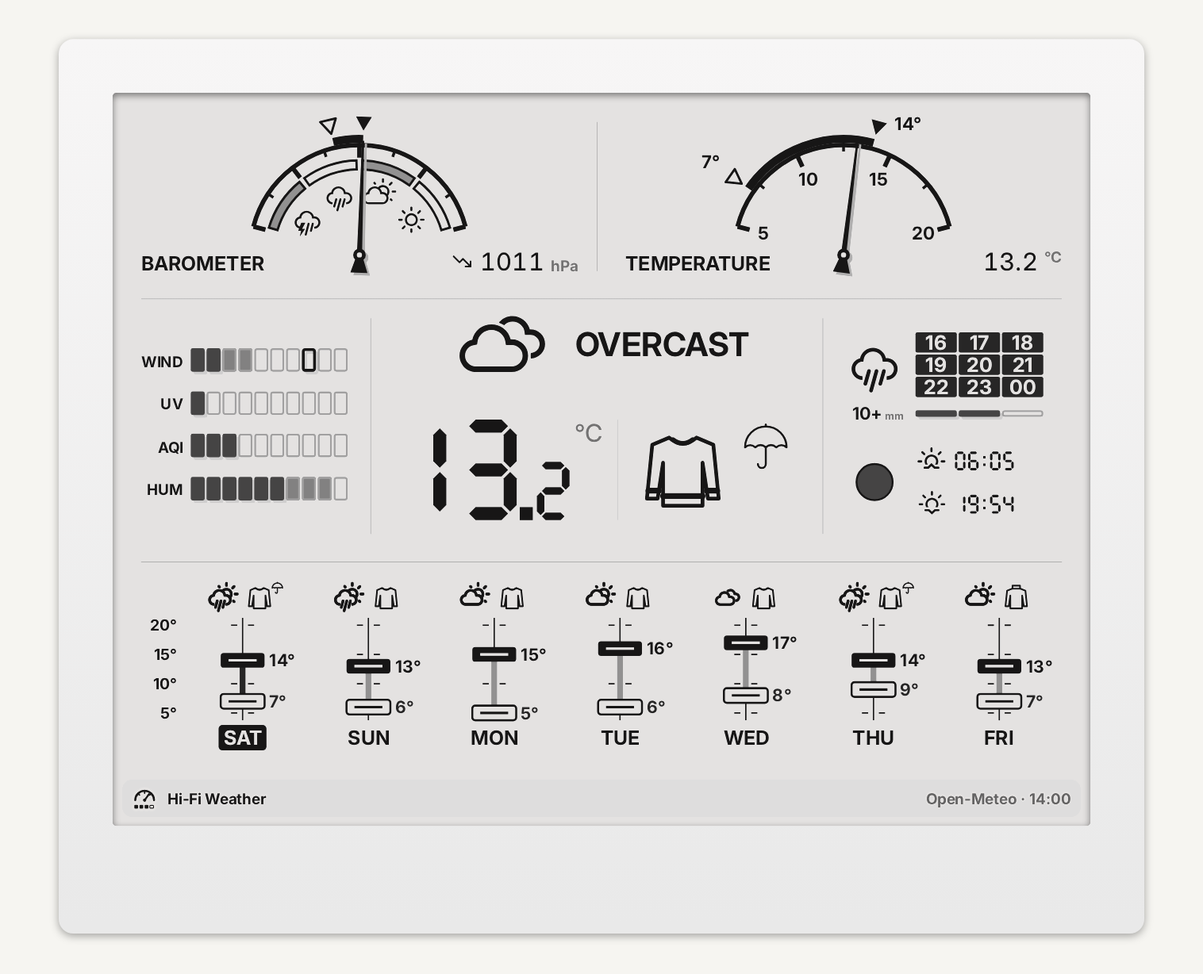
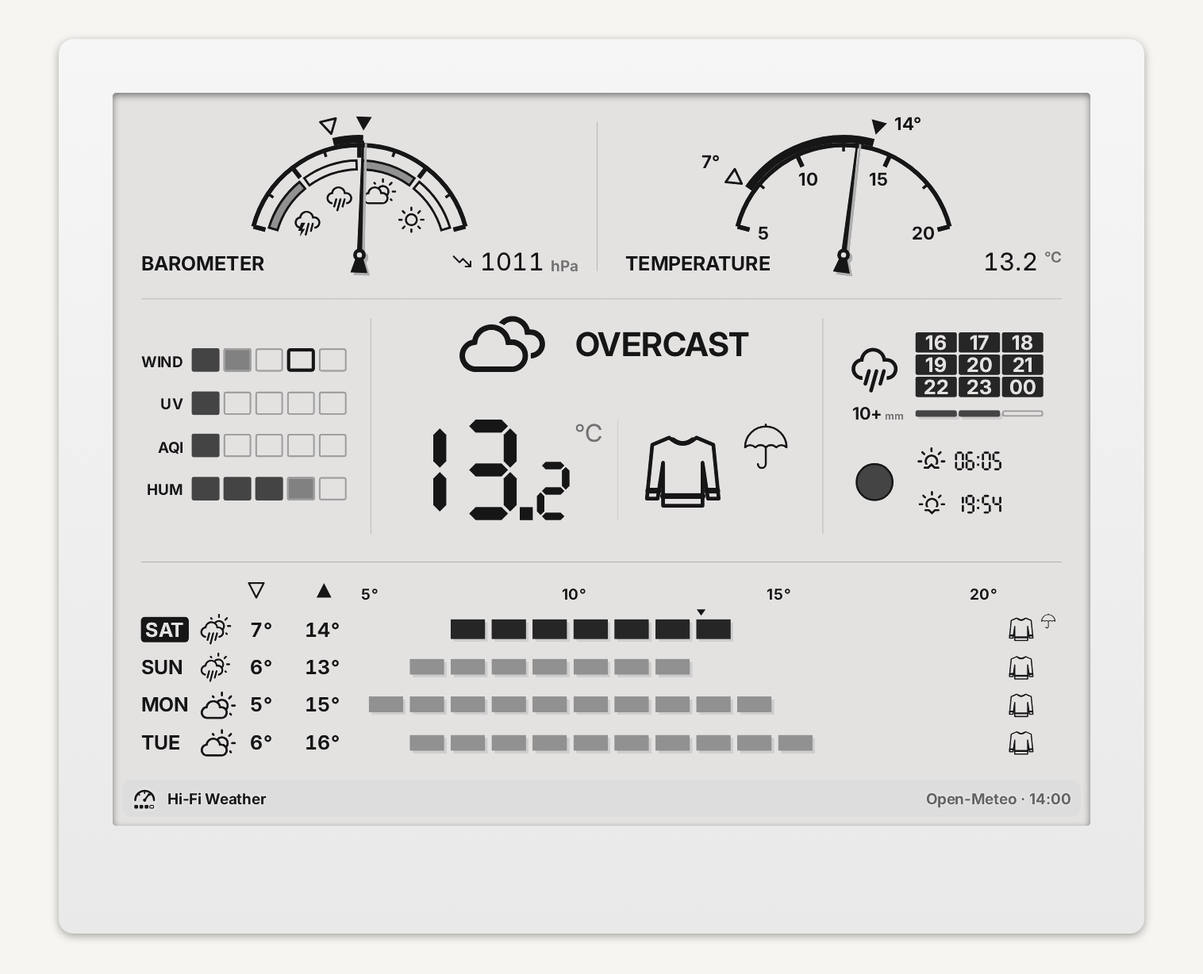
Site: the try-it page's Week display offers Blocks and Digital like settings.yml, guide picture 4 shows the Blocks week (captured again), the numbered legends and their badges are gone, README week text follows Blocks; docs rebuilt
The page is English only. Its option guard is a model test in the next commit (every page select equals the options of settings.yml).

diff --git a/docs/index.html b/docs/index.html
@@ -65,9 +65,6 @@ footer{padding:20px 0 40px;color:var(--mute);font-size:.85rem;border-top:1px sol
 .pic{position:relative;background:var(--panel);border:1px solid var(--rule);border-radius:10px;padding:8px}
 .im{position:relative}
 .pic img{display:block;width:100%;height:auto;border-radius:6px}
-.bd{position:absolute;transform:translate(-50%,-50%);min-width:20px;height:20px;border-radius:10px;background:#c8321e;color:#fff;font:600 12px/20px system-ui,sans-serif;text-align:center;padding:0 4px;box-shadow:0 0 0 2px #fff}
-ol.legend{margin:0;padding-left:1.6rem}
-ol.legend li{padding:5px 0;font-size:.92rem}
 
 </style>
 </head>
@@ -101,7 +98,7 @@ ol.legend li{padding:5px 0;font-size:.92rem}
       <div class="row"><label for="bottom">Bottom strip</label><select id="bottom"><option value="days">Days</option><option value="hours">Hours</option><option value="auto">Hours, then days</option></select></div>
       <div class="row"><label for="bottom_switch">Switch to days at</label><select id="bottom_switch"><option value="12">12:00</option><option value="13">13:00</option><option value="14">14:00</option><option value="15">15:00</option><option value="16">16:00</option><option value="17">17:00</option><option value="18" selected>18:00</option><option value="19">19:00</option><option value="20">20:00</option><option value="21">21:00</option><option value="22">22:00</option><option value="23">23:00</option></select></div>
       <div class="row"><label for="hide_title_bar">Hide title bar</label><label class="chk"><input type="checkbox" id="hide_title_bar"> on</label></div>
-      <div class="row"><label for="week_style">Week display</label><select id="week_style"><option value="auto">Auto</option><option value="eq">EQ sliders</option><option value="digital">Digital</option></select></div>
+      <div class="row"><label for="week_style">Week display</label><select id="week_style"><option value="blocks">Blocks</option><option value="digital">Digital</option></select></div>
       <div class="row"><label for="show_wear">What to wear</label><label class="chk"><input type="checkbox" id="show_wear" checked> on</label></div>
     </fieldset>
     <fieldset><legend>Sensor</legend>
@@ -121,7 +118,7 @@ ol.legend li{padding:5px 0;font-size:.92rem}
     <li><b>Console</b>: the temperature in segment digits, and what to wear: parka, jacket, sweater or T-shirt, and an umbrella.</li>
     <li><b>Meters</b> for wind and gusts, UV, air quality, humidity, pollen and pressure, only when they matter.</li>
     <li><b>Rain or sun</b>: an hour calendar when rain is coming, otherwise sunrise, sunset and the moon as seen from your place.</li>
-    <li><b>Bottom strip</b>: the coming hours, or the coming days as a week display (EQ sliders or Digital).</li>
+    <li><b>Bottom strip</b>: the coming hours, or the coming days as a week display (Blocks or Digital).</li>
     <li><b>Indoor sensor</b>: a TRMNL temperature sensor on this screen or on another TRMNL, with an optional label; the CO2 meter shows when the source gives a CO2 reading.</li>
     <li><b>Every view</b>: full, half horizontal, half vertical, quadrant; 1-bit, greyscale and colour screens; dark mode.</li>
     <li><b>Offline</b>: when Open-Meteo is slow or down, the last saved forecast shows with its time.</li>
@@ -133,56 +130,19 @@ ol.legend li{padding:5px 0;font-size:.92rem}
   <p class="note">Four real screens from this page (TRMNL X, full view). Numbers match the lists. Values come from the plugin's code; yellow and red show on colour screens only, on the others count the blocks.</p>
 
   <div class="fig">
-    <div class="pic"><div class="im"><img src="guide/g1.png" alt="Hi-Fi Weather, heat wave example, with numbered parts" width="758" height="614" loading="lazy"><b class="bd" style="left:29.9%;top:17.3%">1</b><b class="bd" style="left:16.8%;top:26.6%">2</b><b class="bd" style="left:70.1%;top:17.3%">3</b><b class="bd" style="left:59.1%;top:15.4%">4</b><b class="bd" style="left:83.8%;top:26.3%">5</b><b class="bd" style="left:22.5%;top:36.7%">6</b><b class="bd" style="left:25.7%;top:45.4%">7</b><b class="bd" style="left:52.3%;top:34.6%">8</b><b class="bd" style="left:39.3%;top:46.8%">9</b><b class="bd" style="left:57.8%;top:46.8%">10</b><b class="bd" style="left:84.6%;top:40.2%">11</b><b class="bd" style="left:71.4%;top:42.4%">12</b><b class="bd" style="left:14.7%;top:70.9%">13</b><b class="bd" style="left:50.0%;top:81.4%">14</b></div></div>
-    <ol class="legend">
-      <li data-guide="baro"><b>Barometer</b> (X): the needle is the air pressure now, scale 970 to 1050 hPa. The four zones are 20 hPa each: thunderstorm (970 to 990), rain (990 to 1010), changeable (1010 to 1030), sunny (1030 to 1050). Normal is about 1013 hPa.</li>
-      <li data-guide="pressure"><b>Pressure and trend</b>: hPa now; the arrow compares with 3 hours ago (rising or falling from 1 hPa, otherwise level).</li>
-      <li data-guide="tdial"><b>Temperature dial</b> (X): the black needle is the temperature now.</li>
-      <li data-guide="marks"><b>Low and high marks</b>: the outlined triangle is today's lowest temperature, the filled one today's highest; the thick arc between them is today's range. The barometer has the same marks for the lowest and highest pressure of the next 24 hours.</li>
-      <li data-guide="trend"><b>Temperature and arrow</b>: the arrow compares now with 3 hours ahead (up or down from 1 degree C, 2 degrees F, otherwise level).</li>
-      <li data-guide="meters"><b>Meters</b>: up to four rows, chosen by what matters now (UV only from a day maximum of 3, pollen only when there is some, air quality, wind, humidity; the barometer row only fills a spare place). 10 blocks on large screens, 5 on small ones. A <b>lit label</b> (white on black, mirrored in dark mode) means the value is in its bad range: WIND from 50 km/h (30 mph), UV from 8, AQI from 60, POLLEN from 50, CO2 from 1400 ppm, and the sensor's HUM below 30 % or above 60 % (outdoor humidity never lights). In the small views (half vertical, quadrant) the console shows two meter rows or none, never a single row. Bands are in the table below.</li>
-      <li data-guide="cells"><b>Light grey blocks</b>: the highest value still to come today (the rest of today up to midnight).</li>
-      <li data-guide="title"><b>Condition</b>: icon and words for the weather now, in your language; a moon icon at night.</li>
-      <li data-guide="digits"><b>Temperature digits</b> in the unit you chose. The last digit is the tenths: smaller, black and on the baseline like the seconds of a clock. Units (°C, hPa, mm) are grey and small everywhere on greyscale screens, black on 1-bit; the °C sits at the top of its number.</li>
-      <li data-guide="cues"><b>What to wear</b>: one garment by the felt temperature of today from 07:00 to 19:00 (the same advice as today's column in the week): a parka when the coldest is under 3 C (37 F) and the warmest under 8 C (46 F), otherwise by the warmest: jacket under 12 C (54 F), sweater under 18 C (64 F), else a T-shirt. An umbrella is added when any hour from 07:00 to 19:00 has a rain chance of 50 % or more. The garment changes only once the felt temperature is 1 degree C (2 F) past the line, so it does not flip back and forth.</li>
-      <li data-guide="sun"><b>Sun times</b>: the next sunrise and sunset; once today's has passed, tomorrow's shows.</li>
-      <li data-guide="moon"><b>Moon</b>: the phase as it looks from your place today.</li>
-      <li data-guide="hours"><b>Hours strip</b>: 12 columns of 2 hours from the current even hour, each with its time, icon, and a bar with the temperature. A black time stamp is the first column (now) or a column where it rains (a rain chance of 50 % or more in one of its hours).</li>
-      <li data-guide="footer"><b>Footer</b>: plugin name, data source and the time of the last update (can be hidden in the settings). When the weather service is down it shows the last saved forecast with its time.</li>
-    </ol>
+    <div class="pic"><div class="im"><img src="guide/g1.png" alt="Hi-Fi Weather, heat wave example" width="758" height="614" loading="lazy"></div></div>
   </div>
 
   <div class="fig">
-    <div class="pic"><div class="im"><img src="guide/g2.png" alt="Hi-Fi Weather with rain coming, with numbered parts" width="758" height="614" loading="lazy"><b class="bd" style="left:72.7%;top:36.4%">1</b><b class="bd" style="left:81.4%;top:36.4%">2</b><b class="bd" style="left:17.1%;top:36.6%">3</b></div></div>
-    <ol class="legend">
-      <li data-guide="rain"><b>Rain column</b>: replaces the sun and moon while rain is expected in the next 12 hours. The icon says what falls: rain, snow or hail. Under the calendar, the amount (for example 3 mm) and the gauge: 1 block drizzle, 2 rain, 3 heavy rain.</li>
-      <li data-guide="calendar"><b>Hour calendar</b>: the next 6 or 9 hours. A dark tile is an hour with a rain chance of 50 % or more (or a wet weather code).</li>
-      <li data-guide="m-rain"><b>Rain gauge</b>: 3 blocks by the heaviest hour of the next 12: 1 drizzle (under 1 mm/h, 0.04 in/h), 2 rain, 3 heavy rain (4 mm/h, 0.16 in/h and up). The number is the 12 hour total, at most 10+ mm (0.4+ in).</li>
-      <li data-guide="hours-wet"><b>Hours strip</b>: the dark time stamps show the same wet hours over the next day.</li>
-      <li data-guide="gust"><b>Gust outline</b> on WIND: the outlined block is the strongest gust still to come today. Dark blocks are the wind now, light grey blocks the wind speed still to come.</li>
-    </ol>
+    <div class="pic"><div class="im"><img src="guide/g2.png" alt="Hi-Fi Weather with rain coming" width="758" height="614" loading="lazy"></div></div>
   </div>
 
   <div class="fig">
-    <div class="pic"><div class="im"><img src="guide/g3.png" alt="Hi-Fi Weather with an indoor sensor, with numbered parts" width="758" height="614" loading="lazy"><b class="bd" style="left:38.5%;top:42.8%">1</b><b class="bd" style="left:57.2%;top:42.5%">2</b><b class="bd" style="left:70.1%;top:17.3%">3</b><b class="bd" style="left:55.6%;top:48.1%">4</b></div></div>
-    <ol class="legend">
-      <li data-guide="sensor"><b>Indoor sensor</b>: the sensor icon (a house, or with Sensor icon Anemometer a mast with cups) marks the sensor's reading (your own TRMNL's or another one's), the tree icon the outside weather. One of them is the first big reading (setting Main reading), the other follows beside it; both icons and the sensor name are black (white on dark). The small reading in the corner of the temperature dial is black too, with a grey unit; only the dial's second needle is grey. An optional short label (for example Upstairs) shows beside the sensor icon.</li>
-      <li data-guide="outside"><b>Outside reading with its cues</b>: the garment and umbrella always belong to the outside weather.</li>
-      <li data-guide="twin"><b>Second needle</b>: the grey needle is the other reading. The marks and range on the dial belong to the outside temperature.</li>
-      <li data-guide="m-co2"><b>CO2</b> (sensor with CO2): comes first with the sensor, and moves up the list past 1400 ppm. Indoor humidity is a second block row next to the outside one, marked with the house and the tree.</li>
-      <li data-guide="small"><b>Small readout</b>: the reading that is not the main one, with its trend arrow.</li>
-    </ol>
+    <div class="pic"><div class="im"><img src="guide/g3.png" alt="Hi-Fi Weather with an indoor sensor" width="758" height="614" loading="lazy"></div></div>
   </div>
 
   <div class="fig">
-    <div class="pic"><div class="im"><img src="guide/g4.png" alt="Hi-Fi Weather with the week display, with numbered parts" width="758" height="614" loading="lazy"><b class="bd" style="left:50.0%;top:65.8%">1</b><b class="bd" style="left:20.2%;top:75.4%">2</b><b class="bd" style="left:20.1%;top:67.0%">3</b><b class="bd" style="left:51.6%;top:66.5%">4</b><b class="bd" style="left:21.7%;top:60.8%">5</b></div></div>
-    <ol class="legend">
-      <li data-guide="days"><b>Week display</b> (setting Bottom strip, then Week display): one column per day, the weather icon and what to wear on top, the weekday below (today as a lit label). <b>EQ sliders</b>: a knob for the high (black) and one for the low (white) on one shared temperature scale at the left, the range between them filled, short tick marks at every scale step and a thin 0 line when 0 is on the scale. <b>Digital</b>: the high in large segment digits and the low smaller, both aligned on the ones digit. <b>Auto</b> (default) takes sliders on the TRMNL X and Digital on smaller and 1-bit or 2-bit screens; the smaller views always show Digital. 4 to 7 days fit on screen.</li>
-      <li data-guide="today"><b>Today</b>: the first column, its label lit (white on black, mirrored in dark mode).</li>
-      <li data-guide="range"><b>Sliders</b>: the black knob is the day's high, the white knob its low, the bar between them the range (black today, grey on the other days on greyscale screens). One temperature scale at the left serves every day; tick marks sit at every scale step. In Digital the high is the large number and the low the smaller one under it, both aligned on the ones digit.</li>
-      <li data-guide="zero"><b>0 line</b>: a thin line across the week when 0 is on the scale; the value labels step clear of it.</li>
-      <li data-guide="daycues"><b>Cue per day</b>: the garment for the day's felt temperature between 07:00 and 19:00 (today's is the console's), and a small umbrella mark from a 50 % rain chance.</li>
-    </ol>
+    <div class="pic"><div class="im"><img src="guide/g4.png" alt="Hi-Fi Weather with the week display" width="758" height="614" loading="lazy"></div></div>
   </div>
 
   <h2>The meters, band by band</h2>
@@ -216,7 +176,7 @@ ol.legend li{padding:5px 0;font-size:.92rem}
     <tr><th>Bottom strip</th><td>Days, hours, or hours then days.</td></tr>
     <tr><th>Switch to days at</th><td>With Hours, then days: the hour (12:00 to 23:00, default 18:00) the hours give way to the days.</td></tr>
     <tr><th>Sensor icon</th><td>The icon in front of the sensor's reading: a house (default) or an anemometer, a mast with cups, for a sensor outside. Only the icon changes.</td></tr>
-    <tr><th>Week display</th><td>Auto (default: EQ sliders on the TRMNL X, Digital on smaller, 1-bit and 2-bit screens), EQ sliders or Digital. Smaller views always show Digital.</td></tr>
+    <tr><th>Week display</th><td>Blocks (default: one row per day with a bar of blocks) or Digital (the high and low in segment digits). An older saved value shows Blocks.</td></tr>
     <tr><th>What to wear</th><td>On by default. Off hides the clothing and umbrella icons everywhere.</td></tr>
     <tr><th>Hide title bar</th><td>Hides the bar with the plugin name and update time on the full view.</td></tr>
     <tr><th>Sensor</th><td>None (outside weather only), This TRMNL, Another TRMNL, or a provider: Home Assistant, Awair, AirGradient, Sensibo, Ecowitt, Adafruit IO or a JSON link. Readings older than 3 hours are ignored. See Indoor sensor sources below. On this page: "Sensor on" and "Sensor".</td></tr>

diff --git a/tools/site/page/index.html b/tools/site/page/index.html
@@ -65,9 +65,6 @@ footer{padding:20px 0 40px;color:var(--mute);font-size:.85rem;border-top:1px sol
 .pic{position:relative;background:var(--panel);border:1px solid var(--rule);border-radius:10px;padding:8px}
 .im{position:relative}
 .pic img{display:block;width:100%;height:auto;border-radius:6px}
-.bd{position:absolute;transform:translate(-50%,-50%);min-width:20px;height:20px;border-radius:10px;background:#c8321e;color:#fff;font:600 12px/20px system-ui,sans-serif;text-align:center;padding:0 4px;box-shadow:0 0 0 2px #fff}
-ol.legend{margin:0;padding-left:1.6rem}
-ol.legend li{padding:5px 0;font-size:.92rem}
 
 </style>
 </head>
@@ -101,7 +98,7 @@ ol.legend li{padding:5px 0;font-size:.92rem}
       <div class="row"><label for="bottom">Bottom strip</label><select id="bottom"><option value="days">Days</option><option value="hours">Hours</option><option value="auto">Hours, then days</option></select></div>
       <div class="row"><label for="bottom_switch">Switch to days at</label><select id="bottom_switch"><option value="12">12:00</option><option value="13">13:00</option><option value="14">14:00</option><option value="15">15:00</option><option value="16">16:00</option><option value="17">17:00</option><option value="18" selected>18:00</option><option value="19">19:00</option><option value="20">20:00</option><option value="21">21:00</option><option value="22">22:00</option><option value="23">23:00</option></select></div>
       <div class="row"><label for="hide_title_bar">Hide title bar</label><label class="chk"><input type="checkbox" id="hide_title_bar"> on</label></div>
-      <div class="row"><label for="week_style">Week display</label><select id="week_style"><option value="auto">Auto</option><option value="eq">EQ sliders</option><option value="digital">Digital</option></select></div>
+      <div class="row"><label for="week_style">Week display</label><select id="week_style"><option value="blocks">Blocks</option><option value="digital">Digital</option></select></div>
       <div class="row"><label for="show_wear">What to wear</label><label class="chk"><input type="checkbox" id="show_wear" checked> on</label></div>
     </fieldset>
     <fieldset><legend>Sensor</legend>
@@ -121,7 +118,7 @@ ol.legend li{padding:5px 0;font-size:.92rem}
     <li><b>Console</b>: the temperature in segment digits, and what to wear: parka, jacket, sweater or T-shirt, and an umbrella.</li>
     <li><b>Meters</b> for wind and gusts, UV, air quality, humidity, pollen and pressure, only when they matter.</li>
     <li><b>Rain or sun</b>: an hour calendar when rain is coming, otherwise sunrise, sunset and the moon as seen from your place.</li>
-    <li><b>Bottom strip</b>: the coming hours, or the coming days as a week display (EQ sliders or Digital).</li>
+    <li><b>Bottom strip</b>: the coming hours, or the coming days as a week display (Blocks or Digital).</li>
     <li><b>Indoor sensor</b>: a TRMNL temperature sensor on this screen or on another TRMNL, with an optional label; the CO2 meter shows when the source gives a CO2 reading.</li>
     <li><b>Every view</b>: full, half horizontal, half vertical, quadrant; 1-bit, greyscale and colour screens; dark mode.</li>
     <li><b>Offline</b>: when Open-Meteo is slow or down, the last saved forecast shows with its time.</li>
@@ -133,56 +130,19 @@ ol.legend li{padding:5px 0;font-size:.92rem}
   <p class="note">Four real screens from this page (TRMNL X, full view). Numbers match the lists. Values come from the plugin's code; yellow and red show on colour screens only, on the others count the blocks.</p>
 
   <div class="fig">
-    <div class="pic"><div class="im"><img src="guide/g1.png" alt="Hi-Fi Weather, heat wave example, with numbered parts" width="758" height="614" loading="lazy"><b class="bd" style="left:29.9%;top:17.3%">1</b><b class="bd" style="left:16.8%;top:26.6%">2</b><b class="bd" style="left:70.1%;top:17.3%">3</b><b class="bd" style="left:59.1%;top:15.4%">4</b><b class="bd" style="left:83.8%;top:26.3%">5</b><b class="bd" style="left:22.5%;top:36.7%">6</b><b class="bd" style="left:25.7%;top:45.4%">7</b><b class="bd" style="left:52.3%;top:34.6%">8</b><b class="bd" style="left:39.3%;top:46.8%">9</b><b class="bd" style="left:57.8%;top:46.8%">10</b><b class="bd" style="left:84.6%;top:40.2%">11</b><b class="bd" style="left:71.4%;top:42.4%">12</b><b class="bd" style="left:14.7%;top:70.9%">13</b><b class="bd" style="left:50.0%;top:81.4%">14</b></div></div>
-    <ol class="legend">
-      <li data-guide="baro"><b>Barometer</b> (X): the needle is the air pressure now, scale 970 to 1050 hPa. The four zones are 20 hPa each: thunderstorm (970 to 990), rain (990 to 1010), changeable (1010 to 1030), sunny (1030 to 1050). Normal is about 1013 hPa.</li>
-      <li data-guide="pressure"><b>Pressure and trend</b>: hPa now; the arrow compares with 3 hours ago (rising or falling from 1 hPa, otherwise level).</li>
-      <li data-guide="tdial"><b>Temperature dial</b> (X): the black needle is the temperature now.</li>
-      <li data-guide="marks"><b>Low and high marks</b>: the outlined triangle is today's lowest temperature, the filled one today's highest; the thick arc between them is today's range. The barometer has the same marks for the lowest and highest pressure of the next 24 hours.</li>
-      <li data-guide="trend"><b>Temperature and arrow</b>: the arrow compares now with 3 hours ahead (up or down from 1 degree C, 2 degrees F, otherwise level).</li>
-      <li data-guide="meters"><b>Meters</b>: up to four rows, chosen by what matters now (UV only from a day maximum of 3, pollen only when there is some, air quality, wind, humidity; the barometer row only fills a spare place). 10 blocks on large screens, 5 on small ones. A <b>lit label</b> (white on black, mirrored in dark mode) means the value is in its bad range: WIND from 50 km/h (30 mph), UV from 8, AQI from 60, POLLEN from 50, CO2 from 1400 ppm, and the sensor's HUM below 30 % or above 60 % (outdoor humidity never lights). In the small views (half vertical, quadrant) the console shows two meter rows or none, never a single row. Bands are in the table below.</li>
-      <li data-guide="cells"><b>Light grey blocks</b>: the highest value still to come today (the rest of today up to midnight).</li>
-      <li data-guide="title"><b>Condition</b>: icon and words for the weather now, in your language; a moon icon at night.</li>
-      <li data-guide="digits"><b>Temperature digits</b> in the unit you chose. The last digit is the tenths: smaller, black and on the baseline like the seconds of a clock. Units (°C, hPa, mm) are grey and small everywhere on greyscale screens, black on 1-bit; the °C sits at the top of its number.</li>
-      <li data-guide="cues"><b>What to wear</b>: one garment by the felt temperature of today from 07:00 to 19:00 (the same advice as today's column in the week): a parka when the coldest is under 3 C (37 F) and the warmest under 8 C (46 F), otherwise by the warmest: jacket under 12 C (54 F), sweater under 18 C (64 F), else a T-shirt. An umbrella is added when any hour from 07:00 to 19:00 has a rain chance of 50 % or more. The garment changes only once the felt temperature is 1 degree C (2 F) past the line, so it does not flip back and forth.</li>
-      <li data-guide="sun"><b>Sun times</b>: the next sunrise and sunset; once today's has passed, tomorrow's shows.</li>
-      <li data-guide="moon"><b>Moon</b>: the phase as it looks from your place today.</li>
-      <li data-guide="hours"><b>Hours strip</b>: 12 columns of 2 hours from the current even hour, each with its time, icon, and a bar with the temperature. A black time stamp is the first column (now) or a column where it rains (a rain chance of 50 % or more in one of its hours).</li>
-      <li data-guide="footer"><b>Footer</b>: plugin name, data source and the time of the last update (can be hidden in the settings). When the weather service is down it shows the last saved forecast with its time.</li>
-    </ol>
+    <div class="pic"><div class="im"><img src="guide/g1.png" alt="Hi-Fi Weather, heat wave example" width="758" height="614" loading="lazy"></div></div>
   </div>
 
   <div class="fig">
-    <div class="pic"><div class="im"><img src="guide/g2.png" alt="Hi-Fi Weather with rain coming, with numbered parts" width="758" height="614" loading="lazy"><b class="bd" style="left:72.7%;top:36.4%">1</b><b class="bd" style="left:81.4%;top:36.4%">2</b><b class="bd" style="left:17.1%;top:36.6%">3</b></div></div>
-    <ol class="legend">
-      <li data-guide="rain"><b>Rain column</b>: replaces the sun and moon while rain is expected in the next 12 hours. The icon says what falls: rain, snow or hail. Under the calendar, the amount (for example 3 mm) and the gauge: 1 block drizzle, 2 rain, 3 heavy rain.</li>
-      <li data-guide="calendar"><b>Hour calendar</b>: the next 6 or 9 hours. A dark tile is an hour with a rain chance of 50 % or more (or a wet weather code).</li>
-      <li data-guide="m-rain"><b>Rain gauge</b>: 3 blocks by the heaviest hour of the next 12: 1 drizzle (under 1 mm/h, 0.04 in/h), 2 rain, 3 heavy rain (4 mm/h, 0.16 in/h and up). The number is the 12 hour total, at most 10+ mm (0.4+ in).</li>
-      <li data-guide="hours-wet"><b>Hours strip</b>: the dark time stamps show the same wet hours over the next day.</li>
-      <li data-guide="gust"><b>Gust outline</b> on WIND: the outlined block is the strongest gust still to come today. Dark blocks are the wind now, light grey blocks the wind speed still to come.</li>
-    </ol>
+    <div class="pic"><div class="im"><img src="guide/g2.png" alt="Hi-Fi Weather with rain coming" width="758" height="614" loading="lazy"></div></div>
   </div>
 
   <div class="fig">
-    <div class="pic"><div class="im"><img src="guide/g3.png" alt="Hi-Fi Weather with an indoor sensor, with numbered parts" width="758" height="614" loading="lazy"><b class="bd" style="left:38.5%;top:42.8%">1</b><b class="bd" style="left:57.2%;top:42.5%">2</b><b class="bd" style="left:70.1%;top:17.3%">3</b><b class="bd" style="left:55.6%;top:48.1%">4</b></div></div>
-    <ol class="legend">
-      <li data-guide="sensor"><b>Indoor sensor</b>: the sensor icon (a house, or with Sensor icon Anemometer a mast with cups) marks the sensor's reading (your own TRMNL's or another one's), the tree icon the outside weather. One of them is the first big reading (setting Main reading), the other follows beside it; both icons and the sensor name are black (white on dark). The small reading in the corner of the temperature dial is black too, with a grey unit; only the dial's second needle is grey. An optional short label (for example Upstairs) shows beside the sensor icon.</li>
-      <li data-guide="outside"><b>Outside reading with its cues</b>: the garment and umbrella always belong to the outside weather.</li>
-      <li data-guide="twin"><b>Second needle</b>: the grey needle is the other reading. The marks and range on the dial belong to the outside temperature.</li>
-      <li data-guide="m-co2"><b>CO2</b> (sensor with CO2): comes first with the sensor, and moves up the list past 1400 ppm. Indoor humidity is a second block row next to the outside one, marked with the house and the tree.</li>
-      <li data-guide="small"><b>Small readout</b>: the reading that is not the main one, with its trend arrow.</li>
-    </ol>
+    <div class="pic"><div class="im"><img src="guide/g3.png" alt="Hi-Fi Weather with an indoor sensor" width="758" height="614" loading="lazy"></div></div>
   </div>
 
   <div class="fig">
-    <div class="pic"><div class="im"><img src="guide/g4.png" alt="Hi-Fi Weather with the week display, with numbered parts" width="758" height="614" loading="lazy"><b class="bd" style="left:50.0%;top:65.8%">1</b><b class="bd" style="left:20.2%;top:75.4%">2</b><b class="bd" style="left:20.1%;top:67.0%">3</b><b class="bd" style="left:51.6%;top:66.5%">4</b><b class="bd" style="left:21.7%;top:60.8%">5</b></div></div>
-    <ol class="legend">
-      <li data-guide="days"><b>Week display</b> (setting Bottom strip, then Week display): one column per day, the weather icon and what to wear on top, the weekday below (today as a lit label). <b>EQ sliders</b>: a knob for the high (black) and one for the low (white) on one shared temperature scale at the left, the range between them filled, short tick marks at every scale step and a thin 0 line when 0 is on the scale. <b>Digital</b>: the high in large segment digits and the low smaller, both aligned on the ones digit. <b>Auto</b> (default) takes sliders on the TRMNL X and Digital on smaller and 1-bit or 2-bit screens; the smaller views always show Digital. 4 to 7 days fit on screen.</li>
-      <li data-guide="today"><b>Today</b>: the first column, its label lit (white on black, mirrored in dark mode).</li>
-      <li data-guide="range"><b>Sliders</b>: the black knob is the day's high, the white knob its low, the bar between them the range (black today, grey on the other days on greyscale screens). One temperature scale at the left serves every day; tick marks sit at every scale step. In Digital the high is the large number and the low the smaller one under it, both aligned on the ones digit.</li>
-      <li data-guide="zero"><b>0 line</b>: a thin line across the week when 0 is on the scale; the value labels step clear of it.</li>
-      <li data-guide="daycues"><b>Cue per day</b>: the garment for the day's felt temperature between 07:00 and 19:00 (today's is the console's), and a small umbrella mark from a 50 % rain chance.</li>
-    </ol>
+    <div class="pic"><div class="im"><img src="guide/g4.png" alt="Hi-Fi Weather with the week display" width="758" height="614" loading="lazy"></div></div>
   </div>
 
   <h2>The meters, band by band</h2>
@@ -216,7 +176,7 @@ ol.legend li{padding:5px 0;font-size:.92rem}
     <tr><th>Bottom strip</th><td>Days, hours, or hours then days.</td></tr>
     <tr><th>Switch to days at</th><td>With Hours, then days: the hour (12:00 to 23:00, default 18:00) the hours give way to the days.</td></tr>
     <tr><th>Sensor icon</th><td>The icon in front of the sensor's reading: a house (default) or an anemometer, a mast with cups, for a sensor outside. Only the icon changes.</td></tr>
-    <tr><th>Week display</th><td>Auto (default: EQ sliders on the TRMNL X, Digital on smaller, 1-bit and 2-bit screens), EQ sliders or Digital. Smaller views always show Digital.</td></tr>
+    <tr><th>Week display</th><td>Blocks (default: one row per day with a bar of blocks) or Digital (the high and low in segment digits). An older saved value shows Blocks.</td></tr>
     <tr><th>What to wear</th><td>On by default. Off hides the clothing and umbrella icons everywhere.</td></tr>
     <tr><th>Hide title bar</th><td>Hides the bar with the plugin name and update time on the full view.</td></tr>
     <tr><th>Sensor</th><td>None (outside weather only), This TRMNL, Another TRMNL, or a provider: Home Assistant, Awair, AirGradient, Sensibo, Ecowitt, Adafruit IO or a JSON link. Readings older than 3 hours are ignored. See Indoor sensor sources below. On this page: "Sensor on" and "Sensor".</td></tr>

diff --git a/docs/app.js b/docs/app.js
@@ -27,7 +27,7 @@
   // ---- state
   var S = {
     source: 'live', city: V.city, device: 'og', view: 'full', language: V.language, dark: false, hw: 'none',
-    f: { unit: V.us ? 'fahrenheit' : 'celsius', time_format: V.us ? '12' : '24', bottom: 'auto', bottom_switch: '18', sensor_icon: 'house', hide_title_bar: 'false', week_style: 'auto', show_wear: 'true', sensor_show: 'show', sensor_label: '', sensor_primary: 'auto' }
+    f: { unit: V.us ? 'fahrenheit' : 'celsius', time_format: V.us ? '12' : '24', bottom: 'auto', bottom_switch: '18', sensor_icon: 'house', hide_title_bar: 'false', week_style: 'blocks', show_wear: 'true', sensor_show: 'show', sensor_label: '', sensor_primary: 'auto' }
   };
   var scenarios = [], engine = null, token = 0, lastUrl = null, timer = 0, liveCache = {};
 

diff --git a/tools/site/page/app.js b/tools/site/page/app.js
@@ -27,7 +27,7 @@
   // ---- state
   var S = {
     source: 'live', city: V.city, device: 'og', view: 'full', language: V.language, dark: false, hw: 'none',
-    f: { unit: V.us ? 'fahrenheit' : 'celsius', time_format: V.us ? '12' : '24', bottom: 'auto', bottom_switch: '18', sensor_icon: 'house', hide_title_bar: 'false', week_style: 'auto', show_wear: 'true', sensor_show: 'show', sensor_label: '', sensor_primary: 'auto' }
+    f: { unit: V.us ? 'fahrenheit' : 'celsius', time_format: V.us ? '12' : '24', bottom: 'auto', bottom_switch: '18', sensor_icon: 'house', hide_title_bar: 'false', week_style: 'blocks', show_wear: 'true', sensor_show: 'show', sensor_label: '', sensor_primary: 'auto' }
   };
   var scenarios = [], engine = null, token = 0, lastUrl = null, timer = 0, liveCache = {};
 

diff --git a/README.md b/README.md
@@ -9,7 +9,7 @@ The weather as a calm early-80s hi-fi receiver, for [TRMNL](https://trmnl.com) e
 - **Dials** (TRMNL X): a barometer with the pressure trend, and a temperature dial with today's low and high.
 - **Console**: the temperature in segment digits with what to wear (parka, jacket, sweater or T-shirt, and an umbrella); block meters for wind and gusts, UV, air quality, humidity, pollen and pressure when they matter, grey cells for what is still to come today.
 - **Rain or sun**: an hour calendar when rain is coming; otherwise sunrise, sunset and the moon as it looks from your location.
-- **Bottom strip**: the coming hours, or the coming days as a week display, one column per day: EQ sliders (a knob for the high and one for the low on one shared scale, a thin 0° line when 0 is on the scale) or Digital (high and low in segment digits, aligned on the ones digit). The weather icon and what to wear sit above each column. Auto (the default) takes sliders on the TRMNL X and Digital on smaller and 1-bit or 2-bit screens; the smaller views always show Digital.
+- **Bottom strip**: the coming hours, or the coming days as a week display: Blocks (the default: one row per day with the day name, the weather icon, the low and high, a bar of blocks on one shared scale and the clothing at the right) or Digital (high and low in segment digits, aligned on the ones digit, spaced out). What to wear sits in the rightmost column of the Blocks and above each Digital column.
 - **Lit labels**: a meter label that turns white on black (mirrored in dark mode) says the value is in its bad range: WIND from 50 km/h (30 mph), UV from 8, AQI from 60, POLLEN from 50, CO2 from 1400 ppm, the sensor's HUM below 30 % or above 60 %.
 - **Look**: no panels or frames, thin divider lines where two sections meet (grey on greyscale screens, dotted black on 1-bit). Units (°C, hPa, mm) are grey and small; the °C sits at the top of its number. Small views show two meter rows or none, never a single one.
 - **Indoor sensor**: with a TRMNL temperature sensor on the screen, indoor becomes the big reading and outdoor moves beside it, or show another TRMNL's sensor (a hallway upstairs) with outside as the big reading. Readings older than 3 hours are ignored. Other sources: Home Assistant, Awair, AirGradient, Sensibo, Ecowitt, Adafruit IO or any JSON link (below).
@@ -26,7 +26,7 @@ Every view (full, half horizontal, half vertical, quadrant), 1-bit, greyscale an
 | Bottom strip | Days, hours, or hours then days |
 | Switch to days at | With Hours, then days: the hour the hours give way to the days, 12:00 to 23:00, default 18:00. |
 | Hide title bar | Hides the title bar on the full view |
-| Week display | Auto (default: EQ sliders on the TRMNL X, Digital on smaller, 1-bit and 2-bit screens), EQ sliders or Digital. Smaller views always show Digital. |
+| Week display | Blocks (default: one row per day with a bar of blocks) or Digital (the high and low in segment digits). An older saved value (the removed Auto and EQ sliders) shows Blocks. |
 | What to wear | On by default. Off hides the clothing and umbrella icons everywhere (next to the temperature and in the week). |
 | Sensor | None (outside weather only), This TRMNL (this screen's own sensor), Another TRMNL, or a provider: Home Assistant, Awair, AirGradient, Sensibo, Ecowitt, Adafruit IO, Custom link (JSON). The fields of the chosen option show; see Indoor sensor sources below. |
 | Sensor from another TRMNL | Shows for Another TRMNL only: the digits in the address of its page on trmnl.com. Empty or not found: this TRMNL's own sensor. |
